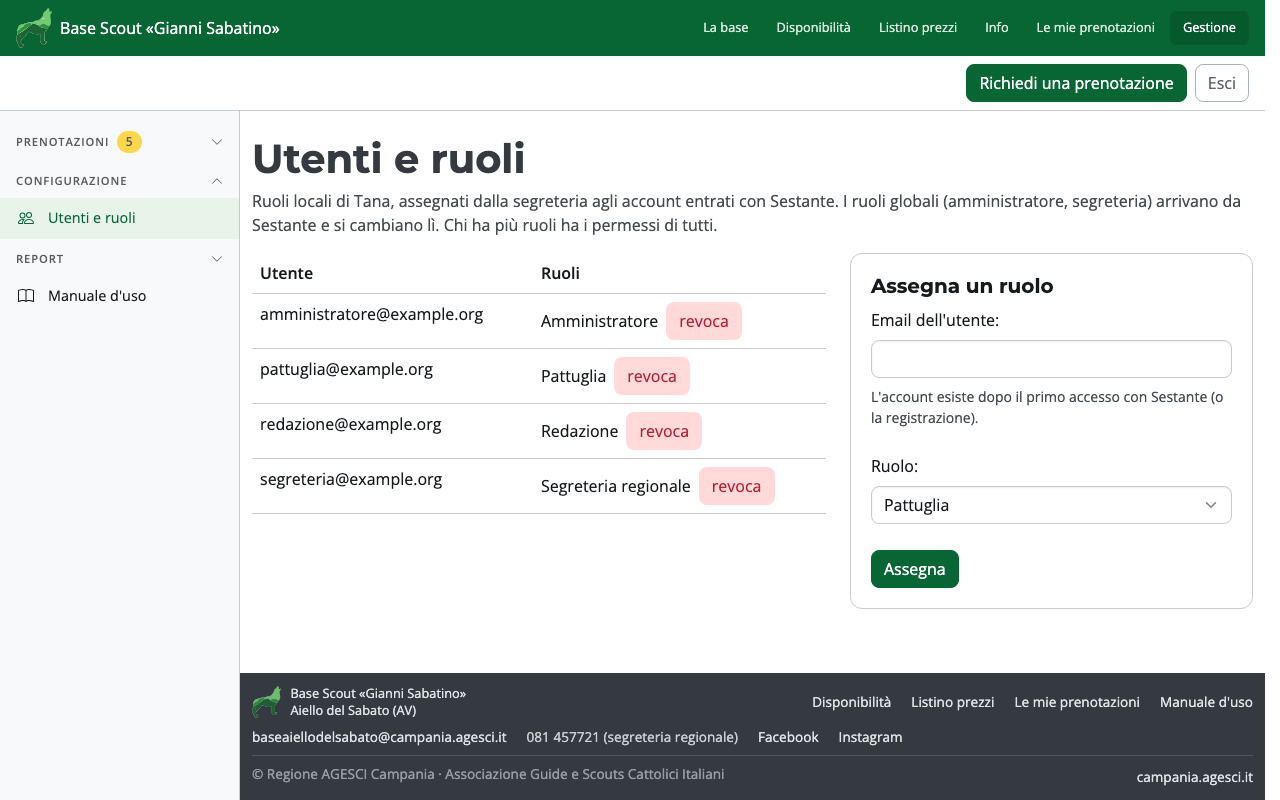
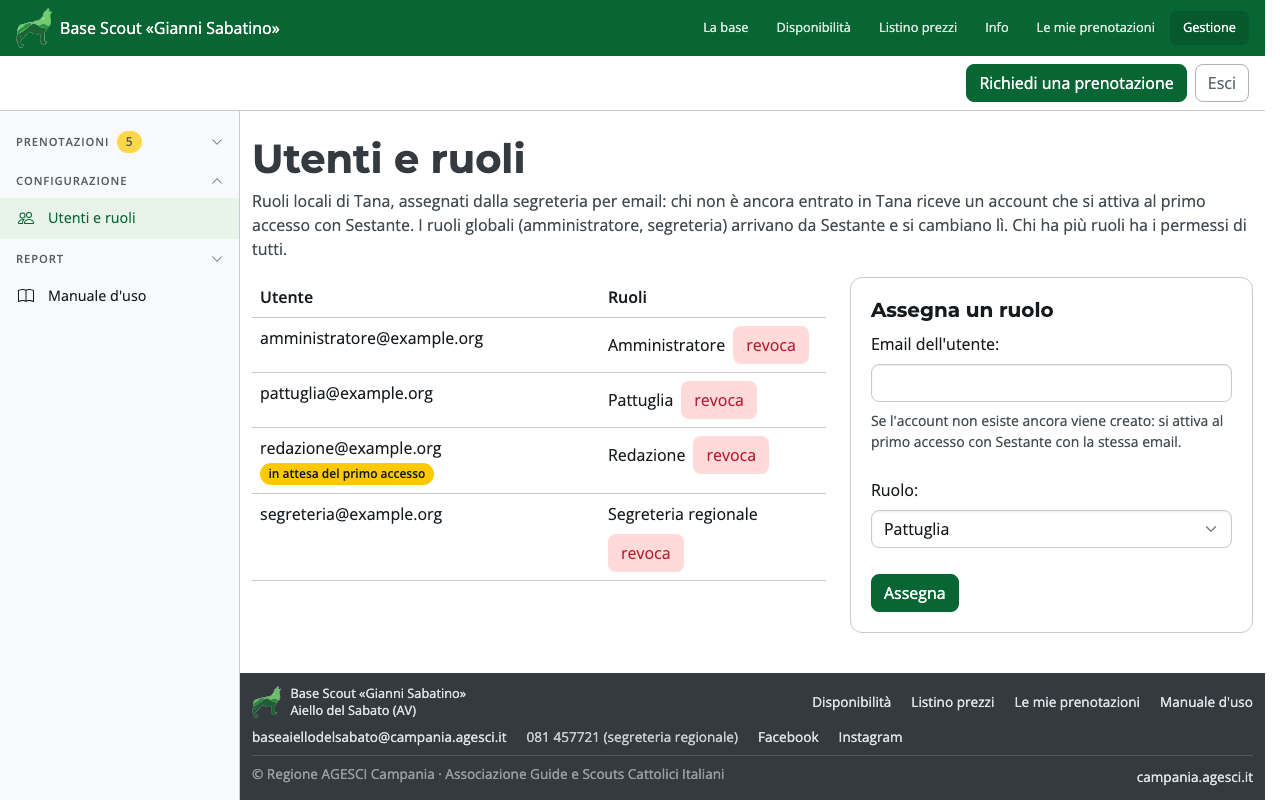
feat: la segreteria pre-registra per email gli account a cui assegna un ruolo
L'account nasce senza password e si collega al primo login Sestante con i
ruoli già assegnati (precisazione di P-12).

diff --git a/templates/gestione/utenti.html b/templates/gestione/utenti.html
@@ -2,14 +2,14 @@
 {% block titolo_pagina %}Utenti e ruoli · {% endblock %}
 {% block content %}
 <h1>Utenti e ruoli</h1>
-<p class="fg-2">Ruoli locali di Tana, assegnati dalla segreteria agli account entrati con Sestante. I ruoli globali (amministratore, segreteria) arrivano da Sestante e si cambiano lì. Chi ha più ruoli ha i permessi di tutti.</p>
+<p class="fg-2">Ruoli locali di Tana, assegnati dalla segreteria per email: chi non è ancora entrato in Tana riceve un account che si attiva al primo accesso con Sestante. I ruoli globali (amministratore, segreteria) arrivano da Sestante e si cambiano lì. Chi ha più ruoli ha i permessi di tutti.</p>
 <div class="row g-7">
   <div class="lg:col-7">
     <div class="table-responsive"><table class="table">
       <thead><tr><th>Utente</th><th>Ruoli</th></tr></thead>
       <tbody>
         {% for utente, nomine in utenti %}
-          <tr><td>{{ utente }}</td>
+          <tr><td>{{ utente }}{% if not utente.last_login %} <span class="badge theme-warning">in attesa del primo accesso</span>{% endif %}</td>
             <td><ul class="list-unstyled mb-0">{% for n in nomine %}
               <li class="d-flex flex-wrap align-items-center gap-3">{{ n.get_ruolo_display }}{% if n.da_sso %} <span class="badge theme-info">Sestante</span>{% else %}<form method="post">{% csrf_token %}<button class="btn-subtle theme-danger" name="revoca" value="{{ n.pk }}" aria-label="Revoca {{ n.get_ruolo_display }} a {{ utente }}">revoca</button></form>{% endif %}</li>
             {% endfor %}</ul></td></tr>

diff --git a/tana/gestione/views.py b/tana/gestione/views.py
@@ -23,7 +23,7 @@ from django.views.decorators.http import require_POST
 
 from tana.accounts import permessi
 from tana.accounts.models import Nomina, Ruolo, User
-from tana.accounts.services import nomina, revoca
+from tana.accounts.services import nomina_per_email, revoca
 from tana.aggiornamenti import services as servizi_aggiornamenti
 from tana.aggiornamenti.models import ReleaseGitHub, RichiestaAggiornamento
 from tana.base.models import Area, Configurazione
@@ -862,15 +862,18 @@ def utenti(request: HttpRequest) -> HttpResponse:
             messages.success(request, f"Ruolo {n.get_ruolo_display()} revocato a {n.utente}.")
             return redirect("gestione:utenti")
         if form.is_valid():
-            utente = User.objects.filter(email__iexact=form.cleaned_data["email"]).first()
-            if utente is None:
-                messages.error(
-                    request, "Nessun utente con questa email: deve prima entrare in Tana."
+            n, creato = nomina_per_email(
+                form.cleaned_data["email"], form.cleaned_data["ruolo"], assegnata_da=request.user
+            )
+            if creato:
+                messages.success(
+                    request,
+                    f"Account creato per {n.utente} con il ruolo {n.get_ruolo_display()}: "
+                    "sarà attivo al primo accesso con Sestante.",
                 )
             else:
-                nomina(utente, form.cleaned_data["ruolo"], assegnata_da=request.user)
-                messages.success(request, f"Ruolo assegnato a {utente}.")
-                return redirect("gestione:utenti")
+                messages.success(request, f"Ruolo assegnato a {n.utente}.")
+            return redirect("gestione:utenti")
     # Una riga per utente, con tutti i suoi ruoli (i permessi dei ruoli si sommano)
     per_utente: dict[User, list[Nomina]] = defaultdict(list)
     for n in (

diff --git a/tana/gestione/tests/test_gestione.py b/tana/gestione/tests/test_gestione.py
@@ -297,14 +297,21 @@ def test_ruoli_dalla_segreteria(segreteria):
     assert nomina_.assegnata_da == segreteria
     c.post(reverse("gestione:utenti"), {"revoca": nomina_.pk})
     assert not Nomina.objects.filter(utente=utente, attiva=True).exists()
-    c.post(reverse("gestione:utenti"), {"email": "nessuno@example.org", "ruolo": Ruolo.PATTUGLIA})
-    assert Nomina.objects.filter(attiva=True).count() == 1  # solo quella della segreteria
+    # Email sconosciuta: account pre-registrato senza password, con il ruolo già assegnato
+    risposta = c.post(
+        reverse("gestione:utenti"), {"email": "Nuovo@Example.org", "ruolo": Ruolo.REDAZIONE}
+    )
+    assert risposta.status_code == 302
+    nuovo = User.objects.get(email__iexact="nuovo@example.org")
+    assert not nuovo.has_usable_password()
+    assert Nomina.objects.get(utente=nuovo, attiva=True).ruolo == Ruolo.REDAZIONE
     # Più ruoli: una sola riga per l'utente
     nomina(utente, Ruolo.PATTUGLIA)
     nomina(utente, Ruolo.REDAZIONE)
     pagina = c.get(reverse("gestione:utenti")).content.decode()
-    assert pagina.count("<td>capo@example.org</td>") == 1
+    assert pagina.count("<td>capo@example.org ") == 1
     assert "Pattuglia" in pagina and "Redazione" in pagina
+    assert pagina.count("in attesa del primo accesso") == 2  # capo e nuovo, mai entrati
 
 
 # --- Report -----------------------------------------------------------------------------

diff --git a/tana/accounts/tests/test_ruoli_sso.py b/tana/accounts/tests/test_ruoli_sso.py
@@ -14,7 +14,13 @@ from tana.accounts.adapters import (
     sessione_da_sestante,
 )
 from tana.accounts.models import Nomina, Ruolo, User
-from tana.accounts.services import allinea_ruoli_globali, nomina, revoca, ruoli_attivi
+from tana.accounts.services import (
+    allinea_ruoli_globali,
+    nomina,
+    nomina_per_email,
+    revoca,
+    ruoli_attivi,
+)
 
 pytestmark = pytest.mark.django_db
 
@@ -140,6 +146,17 @@ def test_utente_esistente_collegato_per_email(utente, sestante):
     assert SocialAccount.objects.get(user=utente).provider == "sestante"
     assert all(e.verified for e in sociallogin.email_addresses)
     assert ruoli_attivi(utente) == {Ruolo.SEGRETERIA}
+
+
+def test_account_pre_registrato_collegato_al_primo_login(db, sestante):
+    n, creato = nomina_per_email("Pre@Example.org", Ruolo.PATTUGLIA)
+    assert creato and not n.utente.has_usable_password()
+    assert nomina_per_email("pre@example.org", Ruolo.REDAZIONE)[1] is False
+    sociallogin = social_login("pre@example.org", groups=["segreteria"])
+    TanaSocialAccountAdapter().pre_social_login(richiesta(), sociallogin)
+    assert sociallogin.is_existing and sociallogin.user == n.utente
+    assert User.objects.count() == 1
+    assert ruoli_attivi(n.utente) == {Ruolo.PATTUGLIA, Ruolo.REDAZIONE, Ruolo.SEGRETERIA}
 
 
 def test_nuovo_utente_con_i_ruoli_globali(db, sestante):

diff --git a/tana/accounts/services.py b/tana/accounts/services.py
@@ -56,6 +56,20 @@ def nomina(utente: User, ruolo: str, *, assegnata_da: Any = None) -> Nomina:
 
 
 @transaction.atomic
+def nomina_per_email(email: str, ruolo: str, *, assegnata_da: Any = None) -> tuple[Nomina, bool]:
+    """Assegna un ruolo locale per email; se l'account non esiste lo pre-registra (P-12).
+
+    L'account nasce senza password (P-13): al primo login Sestante il collegamento per email
+    (D-28) lo aggancia, con i ruoli già assegnati. Restituisce la nomina e se l'account è nuovo.
+    """
+    utente = User.objects.filter(email__iexact=email).first()
+    creato = utente is None
+    if utente is None:
+        utente = User.objects.create_user(email)
+    return nomina(utente, ruolo, assegnata_da=assegnata_da), creato
+
+
+@transaction.atomic
 def revoca(utente: User, ruolo: str) -> None:
     """Revoca un ruolo locale; le nomine da Sestante le gestisce solo il login SSO."""
     utente.nomine.filter(ruolo=ruolo, da_sso=False, attiva=True).update(attiva=False)

diff --git a/tana/gestione/forms.py b/tana/gestione/forms.py
@@ -420,7 +420,10 @@ class CategoriaForm(forms.ModelForm):
 class NominaForm(forms.Form):
     email = forms.EmailField(
         label="Email dell'utente",
-        help_text="L'account esiste dopo il primo accesso con Sestante (o la registrazione).",
+        help_text=(
+            "Se l'account non esiste ancora viene creato: si attiva al primo accesso con "
+            "Sestante con la stessa email."
+        ),
     )
     ruolo = forms.ChoiceField(label="Ruolo", choices=Ruolo.choices)
 

diff --git a/docs/Tana_Progettazione.md b/docs/Tana_Progettazione.md
@@ -44,7 +44,7 @@ legate a SSO e installazione sul modello di Plancia 3.0.
 | P-09 | ✅ Approvata. PDF generati con WeasyPrint, export con openpyxl | §9 | Altre librerie |
 | P-10 | ✅ Approvata. Autenticazione con django-allauth (verifica email obbligatoria), già supportato dal tema | D-15 | Autenticazione Django di base |
 | P-11 | ✅ Approvata. Servizio `scheduler` nel compose (stessa immagine dell'app) che lancia il comando periodico a intervalli, con healthcheck su un file di battito; niente cron sull'host | §9.1 | Cron/systemd timer sull'host con `docker compose exec` |
-| P-12 | ✅ Approvata. Ruoli di Tana assegnati in Tana dalla segreteria agli utenti entrati con Sestante (al primo accesso nessun ruolo locale). Precisazione del 17/11/2026 per il contratto SSO: solo i due ruoli globali (`admin-multipiattaforma` → Amministratore, `segreteria` → Segreteria regionale) arrivano dal claim `groups` | D-28 | Ruoli derivati dai gruppi di Sestante (claim `groups`) |
+| P-12 | ✅ Approvata. Ruoli di Tana assegnati in Tana dalla segreteria agli utenti entrati con Sestante (al primo accesso nessun ruolo locale). Precisazione del 17/11/2026 per il contratto SSO: solo i due ruoli globali (`admin-multipiattaforma` → Amministratore, `segreteria` → Segreteria regionale) arrivano dal claim `groups`. Precisazione del 18/11/2026: la segreteria può assegnare un ruolo anche a chi non è ancora entrato, indicandone l'email; Tana **pre-registra** l'account senza password (P-13) e il primo login Sestante lo collega per email (D-28) con i ruoli già assegnati | D-28 | Ruoli derivati dai gruppi di Sestante (claim `groups`) |
 | P-13 | ✅ Approvata. Account di gestione solo via Sestante, senza password locale; un solo superutente tecnico locale per emergenza, se Sestante non è raggiungibile, creato da `installa.sh` con MFA TOTP obbligatoria | D-28 | Anche password locali |
 | P-14 | ✅ Approvata. Ricevute dei bonifici e altri allegati privati serviti solo tramite Django con controllo dei permessi (`X-Accel-Redirect` verso una location `internal` di nginx), mai come `/media/` pubblico | D-27 | Media pubblici con URL non indovinabili |
 | P-15 | ✅ Approvata il 17/11/2026. Ruolo **Redazione** assegnato dalla segreteria (anche a membri della Pattuglia): dà accesso solo all'editor delle pagine del sito; l'amministratore ha anche questo permesso | D-30, §6 | Editor riservato all'amministratore |
@@ -243,8 +243,8 @@ esenzione dell'acconto. P-03.
 ### D-15 — Account
 - **Richiedenti**: si registrano da soli con email verificata (P-10). Storico delle proprie prenotazioni.
 - **Account di gestione** (Pattuglia, amministratori, responsabile, redazione, segreteria): accedono
-  con il login unico di **Sestante** (D-28). La segreteria assegna i ruoli locali in Tana e nomina il
-  responsabile della base (P-12); i ruoli globali arrivano da Sestante (D-28).
+  con il login unico di **Sestante** (D-28). La segreteria assegna i ruoli locali in Tana (anche prima del primo
+  accesso, per email) e nomina il responsabile della base (P-12); i ruoli globali arrivano da Sestante (D-28).
 - Un utente Sestante senza ruoli di gestione può prenotare come richiedente (P-19).
 
 ### D-16 — Comunicazione tra gruppi
@@ -698,7 +698,7 @@ configurare (D-08).
 | Prenotazioni prioritarie senza contatti, blocchi tecnici | | | | ✓ | |
 | Listini, strutture, configurazione | | | | ✓ | |
 | Pagine del sito in Wagtail (anche il ruolo Redazione, P-15) | | | | ✓ | |
-| Assegnare i ruoli di gestione in Tana (account creati in Sestante), nominare il responsabile della base | | | | | ✓ |
+| Assegnare i ruoli di gestione in Tana (account di Sestante, anche pre-registrati per email), nominare il responsabile della base | | | | | ✓ |
 
 - Responsabile della base: nominato dalla segreteria; ha **gli stessi permessi dell'amministratore**.
   L'amministratore resta un ruolo tecnico, non necessariamente coincidente con il responsabile.

diff --git a/manuale/segreteria.md b/manuale/segreteria.md
@@ -19,8 +19,10 @@ regionale insieme).
 | **Segreteria regionale** | consultazione di tutto, assegnazione dei ruoli |
 
 **Assegnare un ruolo**: in «Assegna un ruolo» inserisci l'**Email dell'utente** e il **Ruolo**, poi
-**Assegna**. L'utente deve essere già entrato almeno una volta in Tana (di solito con Sestante),
-altrimenti compare «Nessun utente con questa email: deve prima entrare in Tana.»
+**Assegna**. Se la persona non è ancora entrata in Tana, l'account viene creato subito con il ruolo
+(«Account creato per … sarà attivo al primo accesso con Sestante.») e in tabella compare
+**in attesa del primo accesso**: al primo accesso con Sestante con la stessa email trova già i suoi
+ruoli. Controlla bene l'indirizzo: deve essere quello del suo account Sestante.
 
 **Revocare**: accanto al ruolo, **revoca**.
 

diff --git a/CHANGELOG.md b/CHANGELOG.md
@@ -5,6 +5,10 @@ mostrare le novità). Le variabili nuove di `.env.template` vanno indicate qui.
 
 ## Non rilasciato
 
+### Modifiche
+
+- **Utenti e ruoli**: la segreteria può assegnare un ruolo anche a chi non è ancora entrato in Tana. L'account viene pre-registrato per email, senza password, e si collega al primo accesso con Sestante con i ruoli già assegnati; in tabella è segnato «in attesa del primo accesso».
+
 ## v1.0.11 — 2026-11-18
 
 ### Sicurezza
